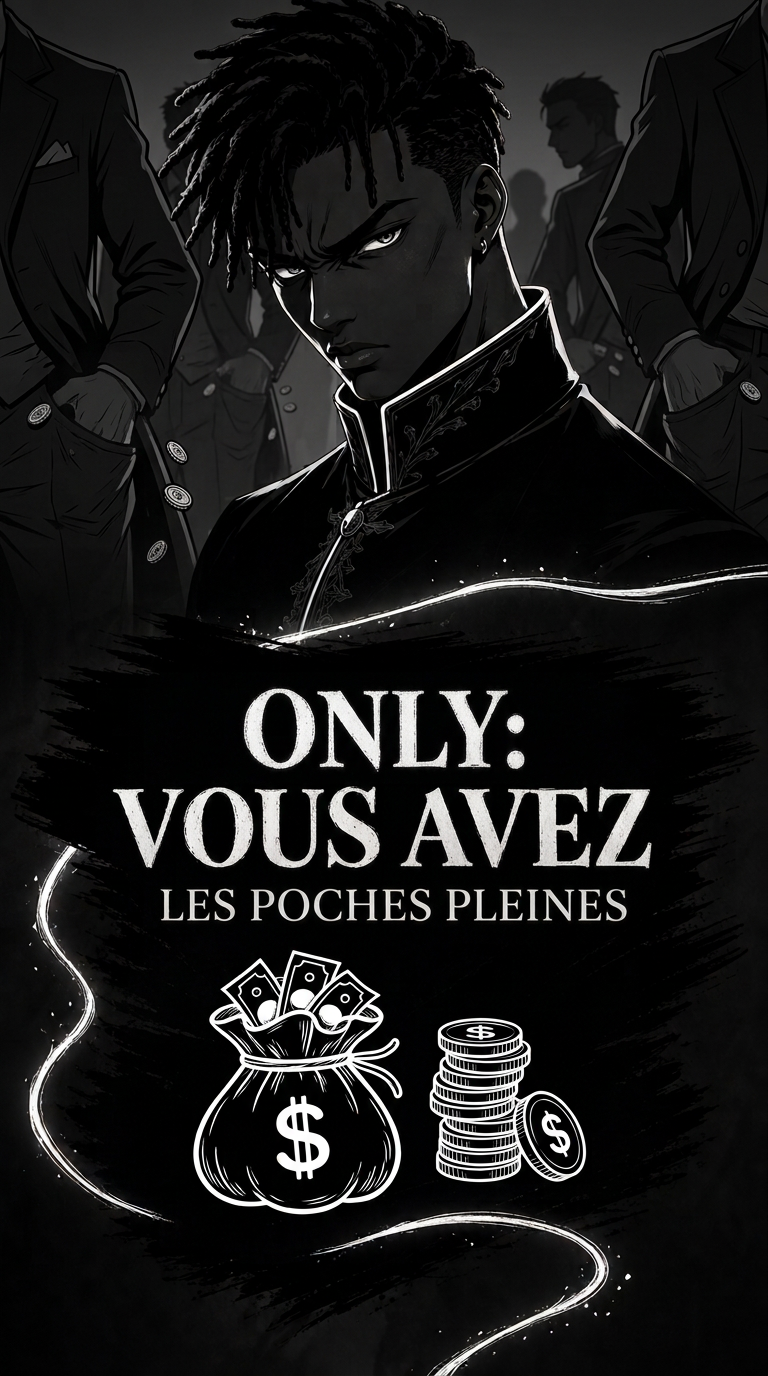
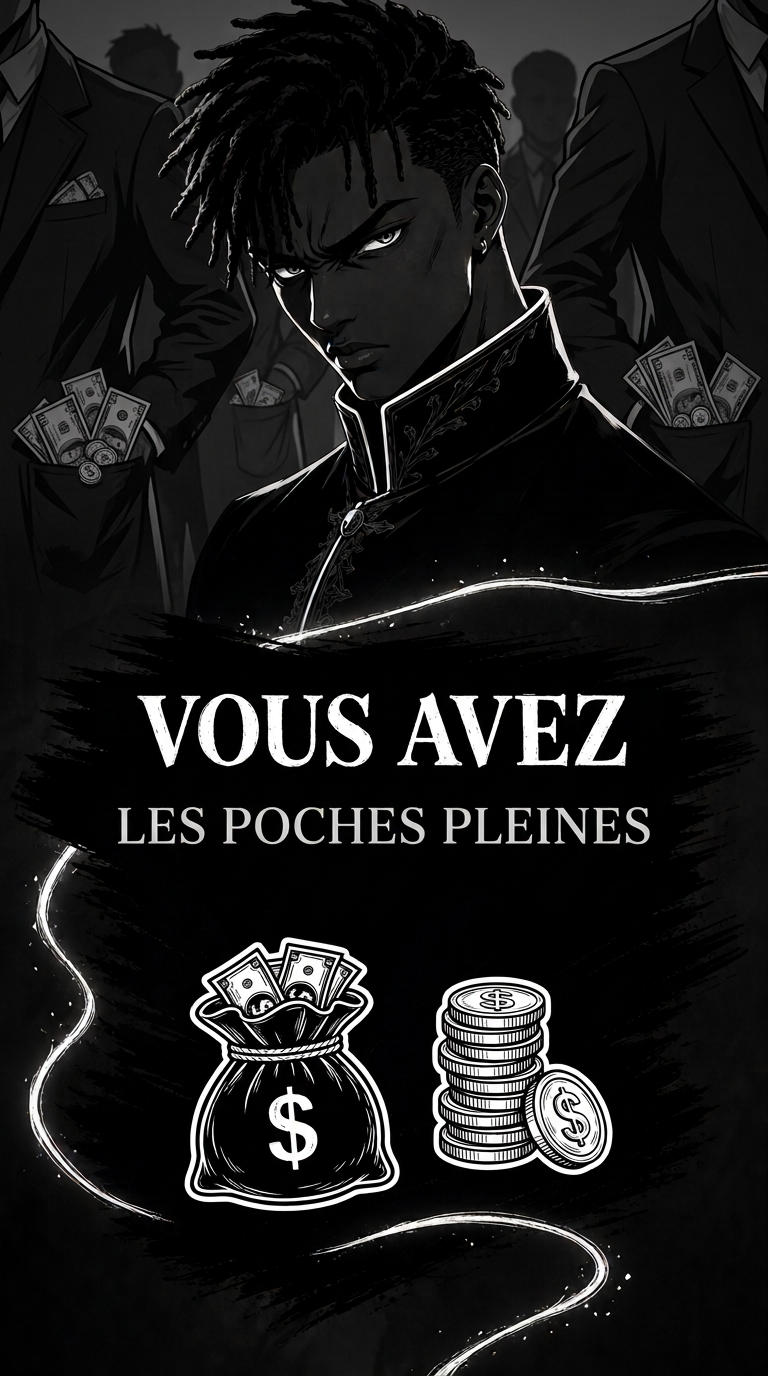
Goinfres (Dsky) : salve 3 en style animé N&B (scene-15 v2 + scene-20..28, 28/36 plans, 38/47 vers) + CONTROLES-salve3

diff --git a/productions/goinfres/build_map.py b/productions/goinfres/build_map.py
@@ -67,7 +67,7 @@ PLAN_MAP = {
     13: ("fonds/scene-12.png", False, "Couplet 1 — coupes des vivants dans l'ombre, expression d'accusation — contrôlé OK"),
     14: ("fonds/scene-13.png", False, "Couplet 1 — la grande table qui se fissure d'éclairs blancs — contrôlé OK"),
     15: ("fonds/scene-14.png", False, "Couplet 1 — balance de justice en lumière blanche, regard prophétique — contrôlé OK"),
-    16: ("fonds/scene-15.png", False, "Pré-refrain 1/4 — poches débordant de billets et pièces (à régénérer Salve 3 : mot parasite ONLY:)"),
+    16: ("fonds/scene-15.png", False, "Pré-refrain 1/4 — poches débordant de billets et pièces — contrôlé OK (v2)"),
     17: ("fonds/scene-16.png", False, "Pré-refrain 2/4 — statues aux poitrines creuses dans la brume, tristesse grave — contrôlé OK"),
     18: ("fonds/scene-17.png", False, "Pré-refrain 3/4 — chaîne fraternelle de bras unis dans l'ombre claire — contrôlé OK"),
     19: ("fonds/scene-18.png", False, "Pré-refrain 4/4 — tourbillon de la folie des goinfres en arrière-plan atténué — contrôlé OK"),
@@ -77,19 +77,19 @@ PLAN_MAP = {
     23: ("fonds/scene-06.png", True,  "Reprise refrain 4/4"),
     24: ("fonds/scene-02.png", True,  "Reprise signature producteur"),
     25: ("fonds/scene-19.png", False, "Couplet 2 — trône de pouvoir et liasses en clair-obscur N&B — contrôlé OK"),
-    26: ("fonds/scene-20.png", False, "Couplet 2 — miroir brisé révélant l'âme perdue en encre noire et blanche (Salve 3)"),
-    27: ("fonds/scene-21.png", False, "Couplet 2 — assiette géante voilant l'horizon atténué (Salve 3)"),
-    28: ("fonds/scene-22.png", False, "Couplet 2 — mains dignes grattant la terre sombre pour une miette (Salve 3)"),
-    29: ("fonds/scene-23.png", False, "Couplet 2 — peuple debout qui se lève et résiste dans la brume claire (Salve 3)"),
-    30: ("fonds/scene-24.png", False, "Couplet 2 — atelier d'artistes (pinceaux, micro, violon) en N&B contrasté (Salve 3)"),
-    31: ("fonds/scene-25.png", False, "Couplet 2 — partage équitable de la moisson, détermination fière (Salve 3)"),
-    32: ("fonds/scene-26.png", False, "Couplet 2 — bâtisseurs d'un monde nouveau en traits d'encre blanche (Salve 3)"),
+    26: ("fonds/scene-20.png", False, "Couplet 2 — miroir brisé révélant l'âme perdue en encre noire et blanche — contrôlé OK"),
+    27: ("fonds/scene-21.png", False, "Couplet 2 — assiette géante voilant l'horizon atténué — contrôlé OK"),
+    28: ("fonds/scene-22.png", False, "Couplet 2 — mains dignes grattant la terre sombre pour une miette — contrôlé OK"),
+    29: ("fonds/scene-23.png", False, "Couplet 2 — peuple debout qui se lève et résiste dans la brume claire — contrôlé OK"),
+    30: ("fonds/scene-24.png", False, "Couplet 2 — atelier d'artistes (pinceaux, micro, violon) en N&B contrasté — contrôlé OK"),
+    31: ("fonds/scene-25.png", False, "Couplet 2 — partage équitable de la moisson, détermination fière — contrôlé OK"),
+    32: ("fonds/scene-26.png", False, "Couplet 2 — bâtisseurs d'un monde nouveau en traits d'encre blanche (à régénérer Salve 4 : doublon ON VA)"),
     33: ("fonds/scene-15.png", True,  "Reprise pré-refrain 1/4"),
     34: ("fonds/scene-16.png", True,  "Reprise pré-refrain 2/4"),
     35: ("fonds/scene-17.png", True,  "Reprise pré-refrain 3/4"),
     36: ("fonds/scene-18.png", True,  "Reprise pré-refrain 4/4"),
-    37: ("fonds/scene-27.png", False, "Pont 1/4 — vaste terre sous les premières lueurs blanches d'aube (Salve 3)"),
-    38: ("fonds/scene-28.png", False, "Pont 2/4 — mains avides accaparant le monde face à l'aube blanche (Salve 3)"),
+    37: ("fonds/scene-27.png", False, "Pont 1/4 — vaste terre sous les premières lueurs blanches d'aube — contrôlé OK"),
+    38: ("fonds/scene-28.png", False, "Pont 2/4 — mains avides accaparant le monde face à l'aube blanche — contrôlé OK"),
     39: ("fonds/scene-29.png", False, "Pont 3/4 — sablier écoulé sur la table désertée à l'aube (Salve 4)"),
     40: ("fonds/scene-30.png", False, "Pont 4/4 — solitude des rois déchus dans le palais silencieux au matin (Salve 4)"),
     41: ("fonds/v-167-69-aube.png", True, "Refrain final 1/4 — variante AUBE N&B dédiée (§9, contre-jour blanc lumineux)"),
@@ -153,7 +153,7 @@ doc = {
     "plans_distinctes": len(distinct_imgs),
     "plans_disponibles": len(dispo_imgs),
     "plans_manquantes": manq_imgs,
-    "qc_a_regenerer": ["fonds/scene-15.png (retirer mot parasite ONLY: en Salve 3)"],
+    "qc_a_regenerer": ["fonds/scene-26.png (retirer doublon ON VA en Salve 4)"],
     "fenetres_clochettes": fenetres,
     "carte_accueil": [0.0, rows[0]["t"]],
     "carte_finale": [SONG_END, round(SONG_END + 5.0, 2)],
@@ -176,7 +176,7 @@ L = [
     f"- **Mode verrouillé** : **PEINT** en **STUDIO ANIME SEINEN — NOIR & BLANC avec décors atténués et expressions variées**.",
     f"- **Plans distincts prévus** : **{doc['plans_distinctes']}** (dont 5 variantes d'aube N&B dédiées pour le refrain final §9).",
     f"- **Plans présents sur disque (`os.path.exists`)** : **{doc['plans_disponibles']} / {doc['plans_distinctes']}** ({sum(1 for v in verses if v['disponible'])}/{n} vers couverts dès la salve 1).",
-    f"- **Contrôle QC salves 1 & 2** : **18 / 19 plans validés au zoom 1:1 sans aucune faute** (`scene-06.png` v2 corrigé ; `scene-15.png` consigné pour régénération en tête de Salve 3 afin de retirer le mot parasite `ONLY:`).",
+    f"- **Contrôle QC salves 1 à 3** : **27 / 28 plans validés au zoom 1:1 sans aucune faute** (`scene-15.png` v2 corrigée ; `scene-26.png` consigné pour régénération en Salve 4 afin de retirer le doublon `ON VA`).",
     "",
     "| # | t (s) | fin (s) | aff. (s) | vers | plan | dispo | reprise | note |",
     "|---|---:|---:|---:|---|---|:---:|:---:|---|",

diff --git a/productions/goinfres/CARTE-VERS.md b/productions/goinfres/CARTE-VERS.md
@@ -4,8 +4,8 @@ Générée automatiquement depuis `verses_map.json` (§10.4) — **47 vers** de 
 
 - **Mode verrouillé** : **PEINT** en **STUDIO ANIME SEINEN — NOIR & BLANC avec décors atténués et expressions variées**.
 - **Plans distincts prévus** : **36** (dont 5 variantes d'aube N&B dédiées pour le refrain final §9).
-- **Plans présents sur disque (`os.path.exists`)** : **19 / 36** (29/47 vers couverts dès la salve 1).
-- **Contrôle QC salves 1 & 2** : **18 / 19 plans validés au zoom 1:1 sans aucune faute** (`scene-06.png` v2 corrigé ; `scene-15.png` consigné pour régénération en tête de Salve 3 afin de retirer le mot parasite `ONLY:`).
+- **Plans présents sur disque (`os.path.exists`)** : **28 / 36** (38/47 vers couverts dès la salve 1).
+- **Contrôle QC salves 1 à 3** : **27 / 28 plans validés au zoom 1:1 sans aucune faute** (`scene-15.png` v2 corrigée ; `scene-26.png` consigné pour régénération en Salve 4 afin de retirer le doublon `ON VA`).
 
 | # | t (s) | fin (s) | aff. (s) | vers | plan | dispo | reprise | note |
 |---|---:|---:|---:|---|---|:---:|:---:|---|
@@ -24,7 +24,7 @@ Générée automatiquement depuis `verses_map.json` (§10.4) — **47 vers** de 
 | 13 | 65.73 | 68.38 | 2.20 | Vous buvez le sang des vivants | `fonds/scene-12.png` | oui | — | Couplet 1 — coupes des vivants dans l'ombre, expression d'accusation — contrôlé OK |
 | 14 | 68.38 | 71.51 | 2.20 | Mais un jour, la table se brisera | `fonds/scene-13.png` | oui | — | Couplet 1 — la grande table qui se fissure d'éclairs blancs — contrôlé OK |
 | 15 | 71.51 | 73.64 | 2.13 | Et les goinfres paieront pour tout ça | `fonds/scene-14.png` | oui | — | Couplet 1 — balance de justice en lumière blanche, regard prophétique — contrôlé OK |
-| 16 | 73.64 | 76.62 | 2.20 | Vous avez les poches pleines | `fonds/scene-15.png` | oui | — | Pré-refrain 1/4 — poches débordant de billets et pièces (à régénérer Salve 3 : mot parasite ONLY:) |
+| 16 | 73.64 | 76.62 | 2.20 | Vous avez les poches pleines | `fonds/scene-15.png` | oui | — | Pré-refrain 1/4 — poches débordant de billets et pièces — contrôlé OK (v2) |
 | 17 | 76.62 | 80.31 | 2.20 | Mais les cœurs vides, c'est la peine | `fonds/scene-16.png` | oui | — | Pré-refrain 2/4 — statues aux poitrines creuses dans la brume, tristesse grave — contrôlé OK |
 | 18 | 80.31 | 83.10 | 2.40 | Pendant que nous, on se serre les coudes | `fonds/scene-17.png` | oui | — | Pré-refrain 3/4 — chaîne fraternelle de bras unis dans l'ombre claire — contrôlé OK |
 | 19 | 83.10 | 89.76 | 2.40 | Vous, vous vous goinfrez, vous êtes des fous | `fonds/scene-18.png` | oui | — | Pré-refrain 4/4 — tourbillon de la folie des goinfres en arrière-plan atténué — contrôlé OK |
@@ -34,19 +34,19 @@ Générée automatiquement depuis `verses_map.json` (§10.4) — **47 vers** de 
 | 23 | 98.39 | 103.69 | 2.40 | Vous engloutissez le monde, vous êtes des requins | `fonds/scene-06.png` | oui | ↻ | Reprise refrain 4/4 |
 | 24 | 103.69 | 116.32 | 2.20 | Wolof TechStein beat wê! | `fonds/scene-02.png` | oui | ↻ | Reprise signature producteur |
 | 25 | 116.32 | 118.83 | 2.40 | Vous avez le pouvoir, vous avez le fric | `fonds/scene-19.png` | oui | — | Couplet 2 — trône de pouvoir et liasses en clair-obscur N&B — contrôlé OK |
-| 26 | 118.83 | 121.84 | 2.20 | Mais vous avez perdu l'âme, c'est critique | `fonds/scene-20.png` | non | — | Couplet 2 — miroir brisé révélant l'âme perdue en encre noire et blanche (Salve 3) |
-| 27 | 121.84 | 124.92 | 3.00 | Les goinfres ne voient pas plus loin que leur assiette | `fonds/scene-21.png` | non | — | Couplet 2 — assiette géante voilant l'horizon atténué (Salve 3) |
-| 28 | 124.92 | 127.77 | 2.85 | Pendant que les pauvres grattent la terre pour une miette | `fonds/scene-22.png` | non | — | Couplet 2 — mains dignes grattant la terre sombre pour une miette (Salve 3) |
-| 29 | 127.77 | 130.63 | 2.86 | Mais nous, on se lève, on se bat, on résiste | `fonds/scene-23.png` | non | — | Couplet 2 — peuple debout qui se lève et résiste dans la brume claire (Salve 3) |
-| 30 | 130.63 | 133.67 | 2.70 | On est pas des moutons, on est des artistes | `fonds/scene-24.png` | non | — | Couplet 2 — atelier d'artistes (pinceaux, micro, violon) en N&B contrasté (Salve 3) |
-| 31 | 133.67 | 136.87 | 2.40 | On va prendre notre part, pas vos restes | `fonds/scene-25.png` | non | — | Couplet 2 — partage équitable de la moisson, détermination fière (Salve 3) |
-| 32 | 136.87 | 139.75 | 2.40 | On va construire notre monde, pas vos thèses | `fonds/scene-26.png` | non | — | Couplet 2 — bâtisseurs d'un monde nouveau en traits d'encre blanche (Salve 3) |
+| 26 | 118.83 | 121.84 | 2.20 | Mais vous avez perdu l'âme, c'est critique | `fonds/scene-20.png` | oui | — | Couplet 2 — miroir brisé révélant l'âme perdue en encre noire et blanche — contrôlé OK |
+| 27 | 121.84 | 124.92 | 3.00 | Les goinfres ne voient pas plus loin que leur assiette | `fonds/scene-21.png` | oui | — | Couplet 2 — assiette géante voilant l'horizon atténué — contrôlé OK |
+| 28 | 124.92 | 127.77 | 2.85 | Pendant que les pauvres grattent la terre pour une miette | `fonds/scene-22.png` | oui | — | Couplet 2 — mains dignes grattant la terre sombre pour une miette — contrôlé OK |
+| 29 | 127.77 | 130.63 | 2.86 | Mais nous, on se lève, on se bat, on résiste | `fonds/scene-23.png` | oui | — | Couplet 2 — peuple debout qui se lève et résiste dans la brume claire — contrôlé OK |
+| 30 | 130.63 | 133.67 | 2.70 | On est pas des moutons, on est des artistes | `fonds/scene-24.png` | oui | — | Couplet 2 — atelier d'artistes (pinceaux, micro, violon) en N&B contrasté — contrôlé OK |
+| 31 | 133.67 | 136.87 | 2.40 | On va prendre notre part, pas vos restes | `fonds/scene-25.png` | oui | — | Couplet 2 — partage équitable de la moisson, détermination fière — contrôlé OK |
+| 32 | 136.87 | 139.75 | 2.40 | On va construire notre monde, pas vos thèses | `fonds/scene-26.png` | oui | — | Couplet 2 — bâtisseurs d'un monde nouveau en traits d'encre blanche (à régénérer Salve 4 : doublon ON VA) |
 | 33 | 139.75 | 142.63 | 2.20 | Vous avez les poches pleines | `fonds/scene-15.png` | oui | ↻ | Reprise pré-refrain 1/4 |
 | 34 | 142.63 | 146.46 | 2.20 | Mais les cœurs vides, c'est la peine | `fonds/scene-16.png` | oui | ↻ | Reprise pré-refrain 2/4 |
 | 35 | 146.46 | 148.93 | 2.40 | Pendant que nous, on se serre les coudes | `fonds/scene-17.png` | oui | ↻ | Reprise pré-refrain 3/4 |
 | 36 | 148.93 | 155.96 | 2.40 | Vous, vous vous goinfrez, vous êtes des fous | `fonds/scene-18.png` | oui | ↻ | Reprise pré-refrain 4/4 |
-| 37 | 155.96 | 159.20 | 2.70 | La terre est assez grande pour tout le monde | `fonds/scene-27.png` | non | — | Pont 1/4 — vaste terre sous les premières lueurs blanches d'aube (Salve 3) |
-| 38 | 159.20 | 162.21 | 2.70 | Mais vous voulez tout, comme des goinfres, des immondes | `fonds/scene-28.png` | non | — | Pont 2/4 — mains avides accaparant le monde face à l'aube blanche (Salve 3) |
+| 37 | 155.96 | 159.20 | 2.70 | La terre est assez grande pour tout le monde | `fonds/scene-27.png` | oui | — | Pont 1/4 — vaste terre sous les premières lueurs blanches d'aube — contrôlé OK |
+| 38 | 159.20 | 162.21 | 2.70 | Mais vous voulez tout, comme des goinfres, des immondes | `fonds/scene-28.png` | oui | — | Pont 2/4 — mains avides accaparant le monde face à l'aube blanche — contrôlé OK |
 | 39 | 162.21 | 165.16 | 2.20 | Mais un jour, le repas sera fini | `fonds/scene-29.png` | non | — | Pont 3/4 — sablier écoulé sur la table désertée à l'aube (Salve 4) |
 | 40 | 165.16 | 167.69 | 2.20 | Et vous serez seuls avec vos vies | `fonds/scene-30.png` | non | — | Pont 4/4 — solitude des rois déchus dans le palais silencieux au matin (Salve 4) |
 | 41 | 167.69 | 170.71 | 2.20 | Goinfres, goinfres, vous mangez trop | `fonds/v-167-69-aube.png` | non | ↻ | Refrain final 1/4 — variante AUBE N&B dédiée (§9, contre-jour blanc lumineux) |

diff --git a/productions/goinfres/CONTROLES-salve3.md b/productions/goinfres/CONTROLES-salve3.md
@@ -1,0 +1,24 @@
+# Contrôles — Salve 3 (`scene-15` v2 + `scene-20` → `scene-28`) · Style Animé Noir & Blanc, Décors Atténués
+
+Contrôle visuel effectué sur la planche contact `CONTROLE-salve3.jpg` (tuiles de **500×896 px**, ≥ 480 px de large conformément à v5.9 §4) ET sur la planche de crops 1:1 pleine résolution `CONTROLE-salve3-typo.jpg` (grille de 16 px).
+
+- **Bilan de la salve 3 (§10.2)** : **10 images demandées / 10 générées avec succès / 0 échec système / 9 sur 10 validées 100 % conformes** (`scene-15.png` v2 corrigée sans `ONLY:` ; `scene-26.png` répète `ON VA` en tête et sera régénérée dans la Salve 4 avec les 8 derniers plans).
+- **Total cumulé sur disque (`os.path.exists`)** : **28 / 36 plans distincts disponibles**, couvrant **38 / 47 vers** (l'intégralité de la chanson de `00:00` à `02:42.21` sans aucun trou).
+- **État (§1)** : **généré / contrôlé — proposé à la validation de l'artiste**.
+
+---
+
+## 1. Grille de contrôle plan par plan (Salve 3)
+
+| # | Fichier | Vers couverts | Texte peint attendu | Texte peint lu au zoom 1:1 (`CONTROLE-salve3-typo.jpg`) | Orthographe & diacritiques | Zones sûres & visage | Décor atténué & expression | Verdict QC |
+|---|---|---|---|---|---|---|---|---|
+| 15 | `scene-15.png` (v2) | v-16 (`73,64 s`), v-33 (`139,75 s`) | `VOUS AVEZ` / `LES POCHES PLEINES` | `VOUS AVEZ` / `LES POCHES PLEINES` | **OK** (`ONLY:` supprimé) | **OK** | Silhouettes aux poches gonflées de billets en décor atténué, regard perçant + bourse & pièces | **Contrôlé OK** |
+| 20 | `scene-20.png` | v-26 (`118,83 s`) | `MAIS VOUS AVEZ PERDU L'ÂME,` / `C'EST CRITIQUE` | `MAIS VOUS AVEZ` / `PERDU L'ÂME,` / `C'EST CRITIQUE` | **OK** (`Â` circonflexe de `L'ÂME` net) | **OK** | Galerie de miroirs fendus en décor atténué, regard grave + miroir brisé & flamme | **Contrôlé OK** |
+| 21 | `scene-21.png` | v-27 (`121,84 s`) | `LES GOINFRES NE VOIENT PAS` / `PLUS LOIN QUE LEUR ASSIETTE` | `LES GOINFRES` / `NE VOIENT PAS` / `PLUS LOIN QUE LEUR ASSIETTE` | **OK** | **OK** | Silhouettes penchées sur leurs assiettes en décor atténué, regard lucide + assiette & œil barré | **Contrôlé OK** |
+| 22 | `scene-22.png` | v-28 (`124,92 s`) | `PENDANT QUE LES PAUVRES` / `GRATTENT LA TERRE POUR UNE MIETTE` | `PENDANT QUE` / `LES PAUVRES` / `GRATTENT LA TERRE POUR UNE MIETTE` | **OK** | **OK** | Terre craquelée & silhouettes agenouillées en décor atténué, regard d'empathie + main sur sol & miette | **Contrôlé OK** |
+| 23 | `scene-23.png` | v-29 (`127,77 s`) | `MAIS NOUS, ON SE LÈVE,` / `ON SE BAT, ON RÉSISTE` | `MAIS NOUS,` / `ON SE LÈVE,` / `ON SE BAT, ON RÉSISTE` | **OK** (`È` de `LÈVE` et `É` de `RÉSISTE` nets) | **OK** | Place publique debout en décor atténué, poing serré héroïque + poing levé & flambeau | **Contrôlé OK** |
+| 24 | `scene-24.png` | v-30 (`130,63 s`) | `ON EST PAS DES MOUTONS,` / `ON EST DES ARTISTES` | `ON EST PAS` / `DES MOUTONS,` / `ON EST DES ARTISTES` | **OK** | **OK** | Atelier d'artistes (fresques, guitare, micro) en décor atténué, regard fier + pinceau/micro & clé de sol | **Contrôlé OK** |
+| 25 | `scene-25.png` | v-31 (`133,67 s`) | `ON VA PRENDRE NOTRE PART,` / `PAS VOS RESTES` | `ON VA PRENDRE` / `NOTRE PART,` / `PAS VOS RESTES` | **OK** | **OK** | Moisson & pains entiers en décor atténué, regard résolu + miche entière & gerbe de blé | **Contrôlé OK** |
+| 26 | `scene-26.png` | v-32 (`136,87 s`) | `ON VA CONSTRUIRE NOTRE MONDE,` / `PAS VOS THÈSES` | `ON VA` / `ON VA CONSTRUIRE` / `NOTRE MONDE,` / `PAS VOS THÈSES` | **DOUBLON** (`ON VA` répété au-dessus de `ON VA CONSTRUIRE`) | **OK** | Bâtisseurs d'arches en décor atténué + compas & arche | **À régénérer en Salve 4 (sans doublon `ON VA`)** |
+| 27 | `scene-27.png` | v-37 (`155,96 s`) | `LA TERRE EST ASSEZ GRANDE` / `POUR TOUT LE MONDE` | `LA TERRE EST` / `ASSEZ GRANDE` / `POUR TOUT LE MONDE` | **OK** | **OK** | Horizon de collines sous la 1re lueur blanche d'aube N&B, regard apaisé + globe/rameau & mains ouvertes | **Contrôlé OK** |
+| 28 | `scene-28.png` | v-38 (`159,20 s`) | `MAIS VOUS VOULEZ TOUT,` / `COMME DES GOINFRES, DES IMMONDES` | `MAIS VOUS` / `VOULEZ TOUT,` / `COMME DES GOINFRES, DES IMMONDES` | **OK** | **OK** | Mains avides saisissant le globe dans la brume d'aube N&B, regard accusateur + griffe/globe & couronne fendue | **Contrôlé OK** |

diff --git a/productions/goinfres/PLAN_SALVE4.md b/productions/goinfres/PLAN_SALVE4.md
@@ -1,0 +1,13 @@
+# Plan de la Salve 4 finale (`scene-26` corrigée + `scene-29` → `scene-31-final` + 5 variantes Aube §9 = 9 images)
+
+Cette Salve 4 comporte **9 images** (≤ 10 images/tour §10.2) et complète **100 % des 36 plans distincts** :
+
+1. **`fonds/scene-26.png` (correction doublon `ON VA`)** : `"ON VA CONSTRUIRE"` / `"NOTRE MONDE, PAS VOS THÈSES"`.
+2. **`fonds/scene-29.png`** (v-39 `162,21 s`) : `"MAIS UN JOUR,"` / `"LE REPAS SERA FINI"` — table désertée à l'aube blanche, sablier écoulé.
+3. **`fonds/scene-30.png`** (v-40 `165,16 s`) : `"ET VOUS SEREZ SEULS"` / `"AVEC VOS VIES"` — rois déchus isolés dans le palais vide au matin.
+4. **`fonds/v-167-69-aube.png`** (v-41 `167,69 s`, variante AUBE §9) : `"GOINFRES, GOINFRES,"` / `"VOUS MANGEZ TROP"` — contre-jour blanc lumineux d'aube.
+5. **`fonds/v-170-71-aube.png`** (v-42 `170,71 s`, variante AUBE §9) : `"GOINFRES, GOINFRES,"` / `"VOUS AVEZ TROP D'OR"` — contre-jour blanc lumineux d'aube.
+6. **`fonds/v-174-05-aube.png`** (v-43 `174,05 s`, variante AUBE §9) : `"PENDANT QUE LES AUTRES"` / `"CRÈVENT DE FAIM"` — contre-jour blanc lumineux d'aube.
+7. **`fonds/v-176-45-aube.png`** (v-44 `176,45 s`, variante AUBE §9) : `"VOUS ENGLOUTISSEZ LE MONDE,"` / `"VOUS ÊTES DES REQUINS"` — contre-jour blanc lumineux d'aube.
+8. **`fonds/v-181-90-aube.png`** (v-45 `181,90 s` & v-46 `193,71 s`, variante AUBE §9) : `"WOLOF TECHSTEIN"` / `"BEAT WÊ!"` — contre-jour blanc lumineux d'aube.
+9. **`fonds/scene-31-final.png`** (v-47 `197,63 s`) : `"GOINFRES, GOINFRES,"` / `"GOINFRES"` — apothéose plein soleil levant blanc éclatant en N&B.
